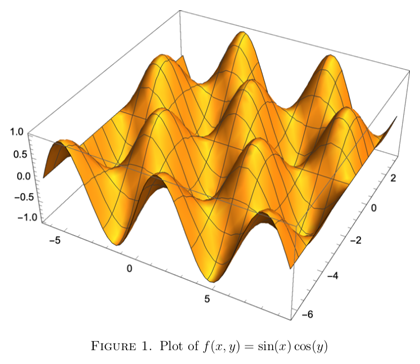
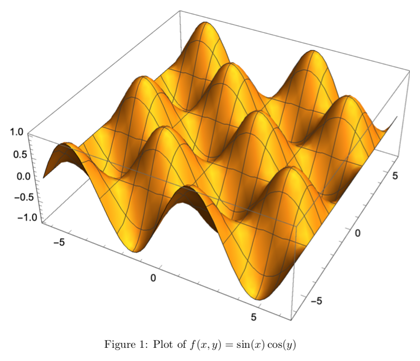
more change for example plot

diff --git a/README.md b/README.md
@@ -38,7 +38,7 @@ Input:
 
 ```tex
 \begin{figure} 
-    \wolframgraphics[pdf]{Plot3D[Sin[x]Cos[y], {x, -2Pi, 3Pi}, {y, -2Pi, Pi}]}{example}
+    \wolframgraphics[pdf]{Plot3D[Sin[x]Cos[y], {x, -2Pi, 2Pi}, {y, -2Pi, 2Pi}]}{example}
     \includegraphics{example.pdf}
     \caption{Plot of $f(x,y)=\sin(x)\cos(y)$}
     \centering
